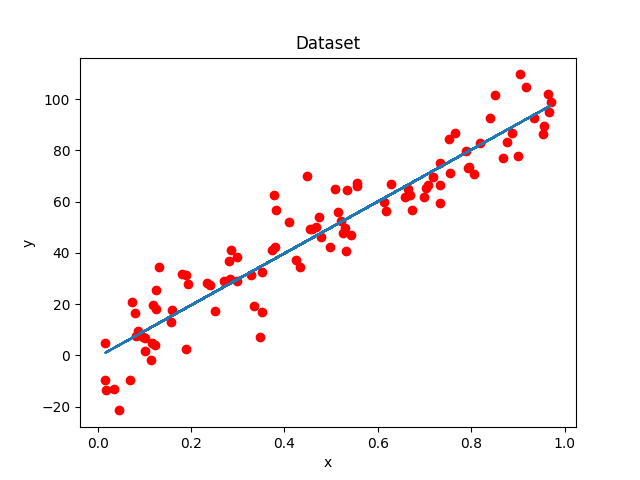
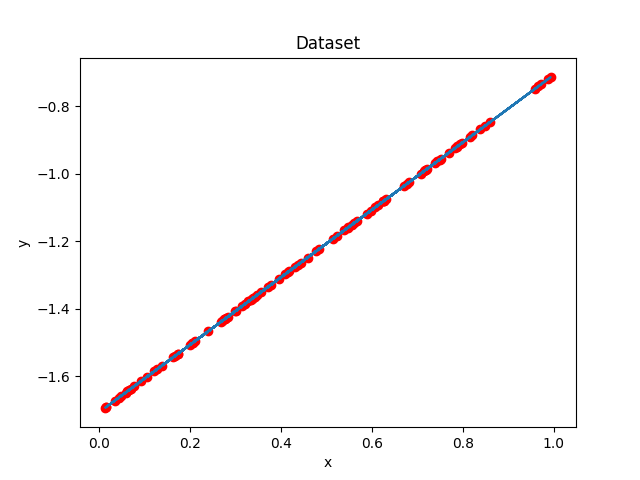
Stochastic gradient descent added

diff --git a/mini_batch_gd.py b/mini_batch_gd.py
@@ -7,7 +7,7 @@ import matplotlib.pyplot as plt
 # y = np.array(dataset['y'])
 def random_data():
     x = np.random.uniform(0,1,100)
-    y = 100*(x+0.1*np.random.randn(100))
+    y = x+np.random.randn(1)
     return (x, y)
 
 x,y = random_data()
@@ -18,13 +18,15 @@ def costFunction(m, t0, t1, x, y):
 def gen_mini_batches(x, y, batch_size): 
 	mini_batches = [] 
 	data = np.hstack((x, y)) 
+	# print(x)
+	# print(y)
+	#print(data)
 	np.random.shuffle(data) 
+	#print(data)
 	n_minibatches = data.shape[0]
 	i = 0
   
 	for i in range(n_minibatches + 1):
-		# print(data) 
-		# print(data[i * batch_size:(i + 1)*batch_size :] )
 		mini_batch = data[i * batch_size:(i + 1)*batch_size :] 
 		x_mini = mini_batch[: :-1] 
 		Y_mini = mini_batch[: -1].reshape((-1, 1)) 
@@ -34,6 +36,8 @@ def gen_mini_batches(x, y, batch_size):
 		x_mini = mini_batch[: :-1] 
 		Y_mini = mini_batch[: -1].reshape((-1, 1)) 
 		mini_batches.append((x_mini, Y_mini)) 
+	#print(f"Mini --------- {mini_batches}")
+	#print("-----------------------------------------------------------------------------------")
 	return mini_batches 
 
 
@@ -48,17 +52,19 @@ def mini_batch_gd(learning_rate, x, y, batch_size,iterations):
 	count = [i+1 for i in range(10000)]
 
 	error = []
+	theeta0=0
+	theeat1=0
 
 	for i in range(iterations):
 		mini_batches = gen_mini_batches(x, y, batch_size) 
 		for mini_batch in mini_batches: 
 			grad0 = 1/m * sum([(theeta0 + theeta1*np.asarray([x[i]]) - y[i]) for i in range(m)]) 
 			grad1 = 1/m * sum([(theeta0 + theeta1*np.asarray([x[i]]) - y[i])*np.asarray([x[i]]) for i in range(m)])
-
-			#Updating the parameters
 			theeta0 = theeta0 - learning_rate * grad0
 			theeta1 = theeta1 - learning_rate * grad1
 			error.append(costFunction(m, theeta0, theeta1, x, y))
+		# print('theta0 = ' + str(theeta0)+"    ",end="")
+		# print('theta1 = ' + str(theeta1))
 
 	return error, theeta0, theeta1
 
@@ -68,8 +74,8 @@ batch_size=40
 
 error, theta0, theta1 = mini_batch_gd(alpha, x, y,batch_size,num_iteration)
 
-print('theta0 = ' + str(theta0))
-print('theta1 = ' + str(theta1))
+print('Final  theta0 = ' + str(theta0)+"    ",end="")
+print('Final  theta1 = ' + str(theta1))
 
 plt.figure(0)
 plt.scatter(x, y, c = 'red')
@@ -79,98 +85,3 @@ plt.ylabel('y')
 plt.title('Dataset')
 plt.savefig('output.png')
 plt.show()
-
-plt.figure(1)
-plt.plot(error, loss)
-plt.xlabel('iteration')
-plt.ylabel('Loss')
-plt.title('Loss History')
-plt.savefig('loss.png')
-plt.show()
-
-# linear regression using "mini-batch" gradient descent 
-# function to compute hypothesis / predictions 
-# linear regression using "mini-batch" gradient descent 
-# function to compute hypothesis / predictions 
-# import numpy as np 
-# import matplotlib.pyplot as plt   
-# # creating data 
-# mean = np.array([5.0, 6.0]) 
-# cov = np.array([[1.0, 0.95], [0.95, 1.2]]) 
-# data = np.random.multivariate_normal(mean, cov, 8000) 
-  
-# # visualising data 
-# #plt.scatter(data[:500, 0], data[:500, 1], marker = '.') 
-# ##plt.show() 
-  
-# # train-test-split 
-# data = np.hstack((np.ones((data.shape[0], 1)), data)) 
-  
-# split_factor = 0.90
-# split = int(split_factor * data.shape[0]) 
-  
-# X_train = data[:split, :-1] 
-# y_train = data[:split, -1].reshape((-1, 1)) 
-# X_test = data[split:, :-1] 
-# y_test = data[split:, -1].reshape((-1, 1)) 
-  
-# print("Number of examples in training set = % d"%(X_train.shape[0])) 
-# print("Number of examples in testing set = % d"%(X_test.shape[0]))
-# def hypothesis(X, theta): 
-# 	return np.dot(X, theta) 
-
-# # function to compute gradient of error function w.r.t. theta 
-# def gradient(X, y, theta): 
-# 	h = hypothesis(X, theta) 
-# 	grad = np.dot(X.transpose(), (h - y)) 
-# 	return grad 
-
-# # function to compute the error for current values of theta 
-# def cost(X, y, theta): 
-# 	h = hypothesis(X, theta) 
-# 	J = np.dot((h - y).transpose(), (h - y)) 
-# 	J /= 2
-# 	return J[0] 
-
-# # function to create a list containing mini-batches 
-# def create_mini_batches(X, y, batch_size): 
-# 	mini_batches = [] 
-# 	data = np.hstack((X, y)) 
-# 	np.random.shuffle(data) 
-# 	n_minibatches = data.shape[0] // batch_size 
-# 	i = 0
-
-# 	for i in range(n_minibatches + 1): 
-# 		mini_batch = data[i * batch_size:(i + 1)*batch_size, :] 
-# 		X_mini = mini_batch[:, :-1] 
-# 		Y_mini = mini_batch[:, -1].reshape((-1, 1)) 
-# 		mini_batches.append((X_mini, Y_mini)) 
-# 	if data.shape[0] % batch_size != 0: 
-# 		mini_batch = data[i * batch_size:data.shape[0]] 
-# 		X_mini = mini_batch[:, :-1] 
-# 		Y_mini = mini_batch[:, -1].reshape((-1, 1)) 
-# 		mini_batches.append((X_mini, Y_mini)) 
-# 	return mini_batches 
-
-# # function to perform mini-batch gradient descent 
-# def gradientDescent(X, y, learning_rate = 0.001, batch_size = 32): 
-# 	theta = np.zeros((X.shape[1], 1)) 
-# 	error_list = [] 
-# 	max_iters = 3
-# 	for itr in range(max_iters): 
-# 		mini_batches = create_mini_batches(X, y, batch_size) 
-# 		for mini_batch in mini_batches: 
-# 			X_mini, y_mini = mini_batch 
-# 			theta = theta - learning_rate * gradient(X_mini, y_mini, theta) 
-# 			error_list.append(cost(X_mini, y_mini, theta)) 
-# 	return theta, error_list 
-
-# theta, error_list = gradientDescent(X_train, y_train) 
-# print("Bias = ", theta[0]) 
-# print("Coefficients = ", theta[1:]) 
-
-# visualising gradient descent 
-#plt.plot(error_list) 
-#plt.xlabel("Number of iterations") 
-#plt.ylabel("Cost") 
-#plt.show()

diff --git a/sgd.py b/sgd.py
@@ -1,0 +1,56 @@
+import numpy as np 
+import pandas as pd 
+import matplotlib.pyplot as plt 
+
+def random_data():
+    x = np.random.uniform(0,1,100)
+    y = x+0.1*np.random.randn(100)
+    return (x, y)
+
+x,y = random_data()
+
+def costFunction(m, t0, t1, x, y):
+	return 1/(2*m) * sum([(t0 + t1* np.asarray([x[i]]) - y[i])**2 for i in range(m)])
+
+
+def sgd(learning_rate, x, y,iterations):
+	theeta0 = 0
+	theeta1 = 0
+
+	m = x.shape[0]
+
+	#total error
+	J = costFunction(m, theeta0, theeta1, x, y)
+	count = [i+1 for i in range(10000)]
+
+	error = []
+	theeta0=0
+	theeat1=0
+
+	for i in range(iterations):
+
+		grad0 = 1/m * sum([(theeta0 + theeta1*np.asarray([x[i]]) - y[i]) for i in range(m)]) 
+		grad1 = 1/m * sum([(theeta0 + theeta1*np.asarray([x[i]]) - y[i])*np.asarray([x[i]]) for i in range(m)])
+		theeta0 = theeta0 - learning_rate * grad0
+		theeta1 = theeta1 - learning_rate * grad1
+		error.append(costFunction(m, theeta0, theeta1, x, y))
+
+	return error, theeta0, theeta1
+
+alpha = 0.01
+num_iteration = 5000
+
+error, theta0, theta1 = sgd(alpha, x, y,num_iteration)
+
+#print(x,y)
+print('Final  theta0 = ' + str(theta0)+"    ",end="")
+print('Final  theta1 = ' + str(theta1))
+
+plt.figure(0)
+plt.scatter(x, y, c = 'red')
+plt.plot(x, theta0 + theta1 * x)
+plt.xlabel('x')
+plt.ylabel('y')
+plt.title('Dataset')
+plt.savefig('output.png')
+plt.show()
